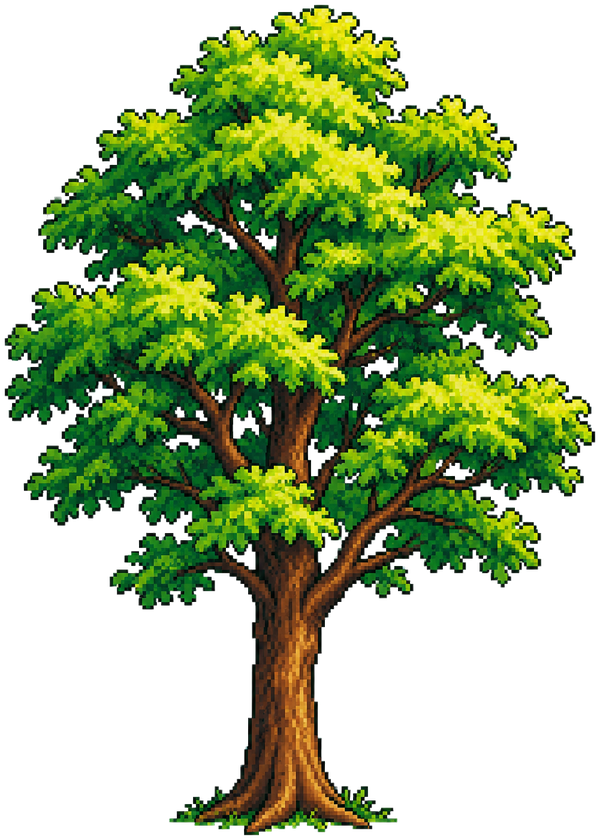
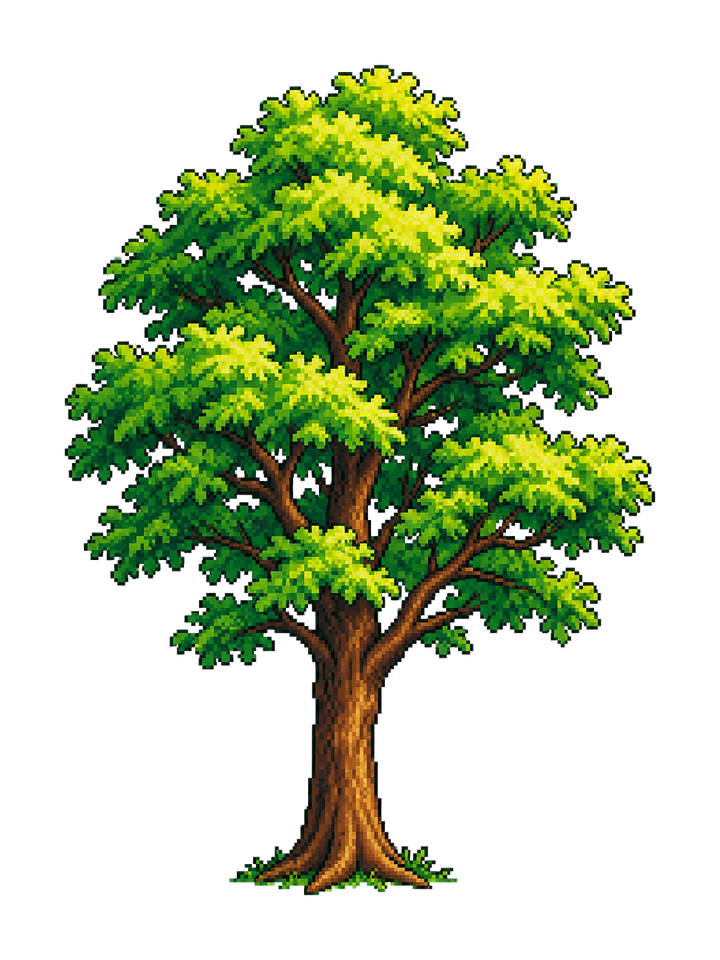
fix: pad transparent tree sprite to remove harsh clipping artifacts

diff --git a/src/scene/Game.js b/src/scene/Game.js
@@ -129,7 +129,7 @@ lnulander.scene.Game.prototype.update = function(step) {
  */
 lnulander.scene.Game.prototype.m_drawTree = function() {
     this.m_tree = new rune.display.Graphic(
-        500, 720, 420, 600, document.getElementById("lnu-tree"));
+        458, 690, 504, 672, document.getElementById("lnu-tree"));
     this.stage.addChild(this.m_tree);
 };
 
